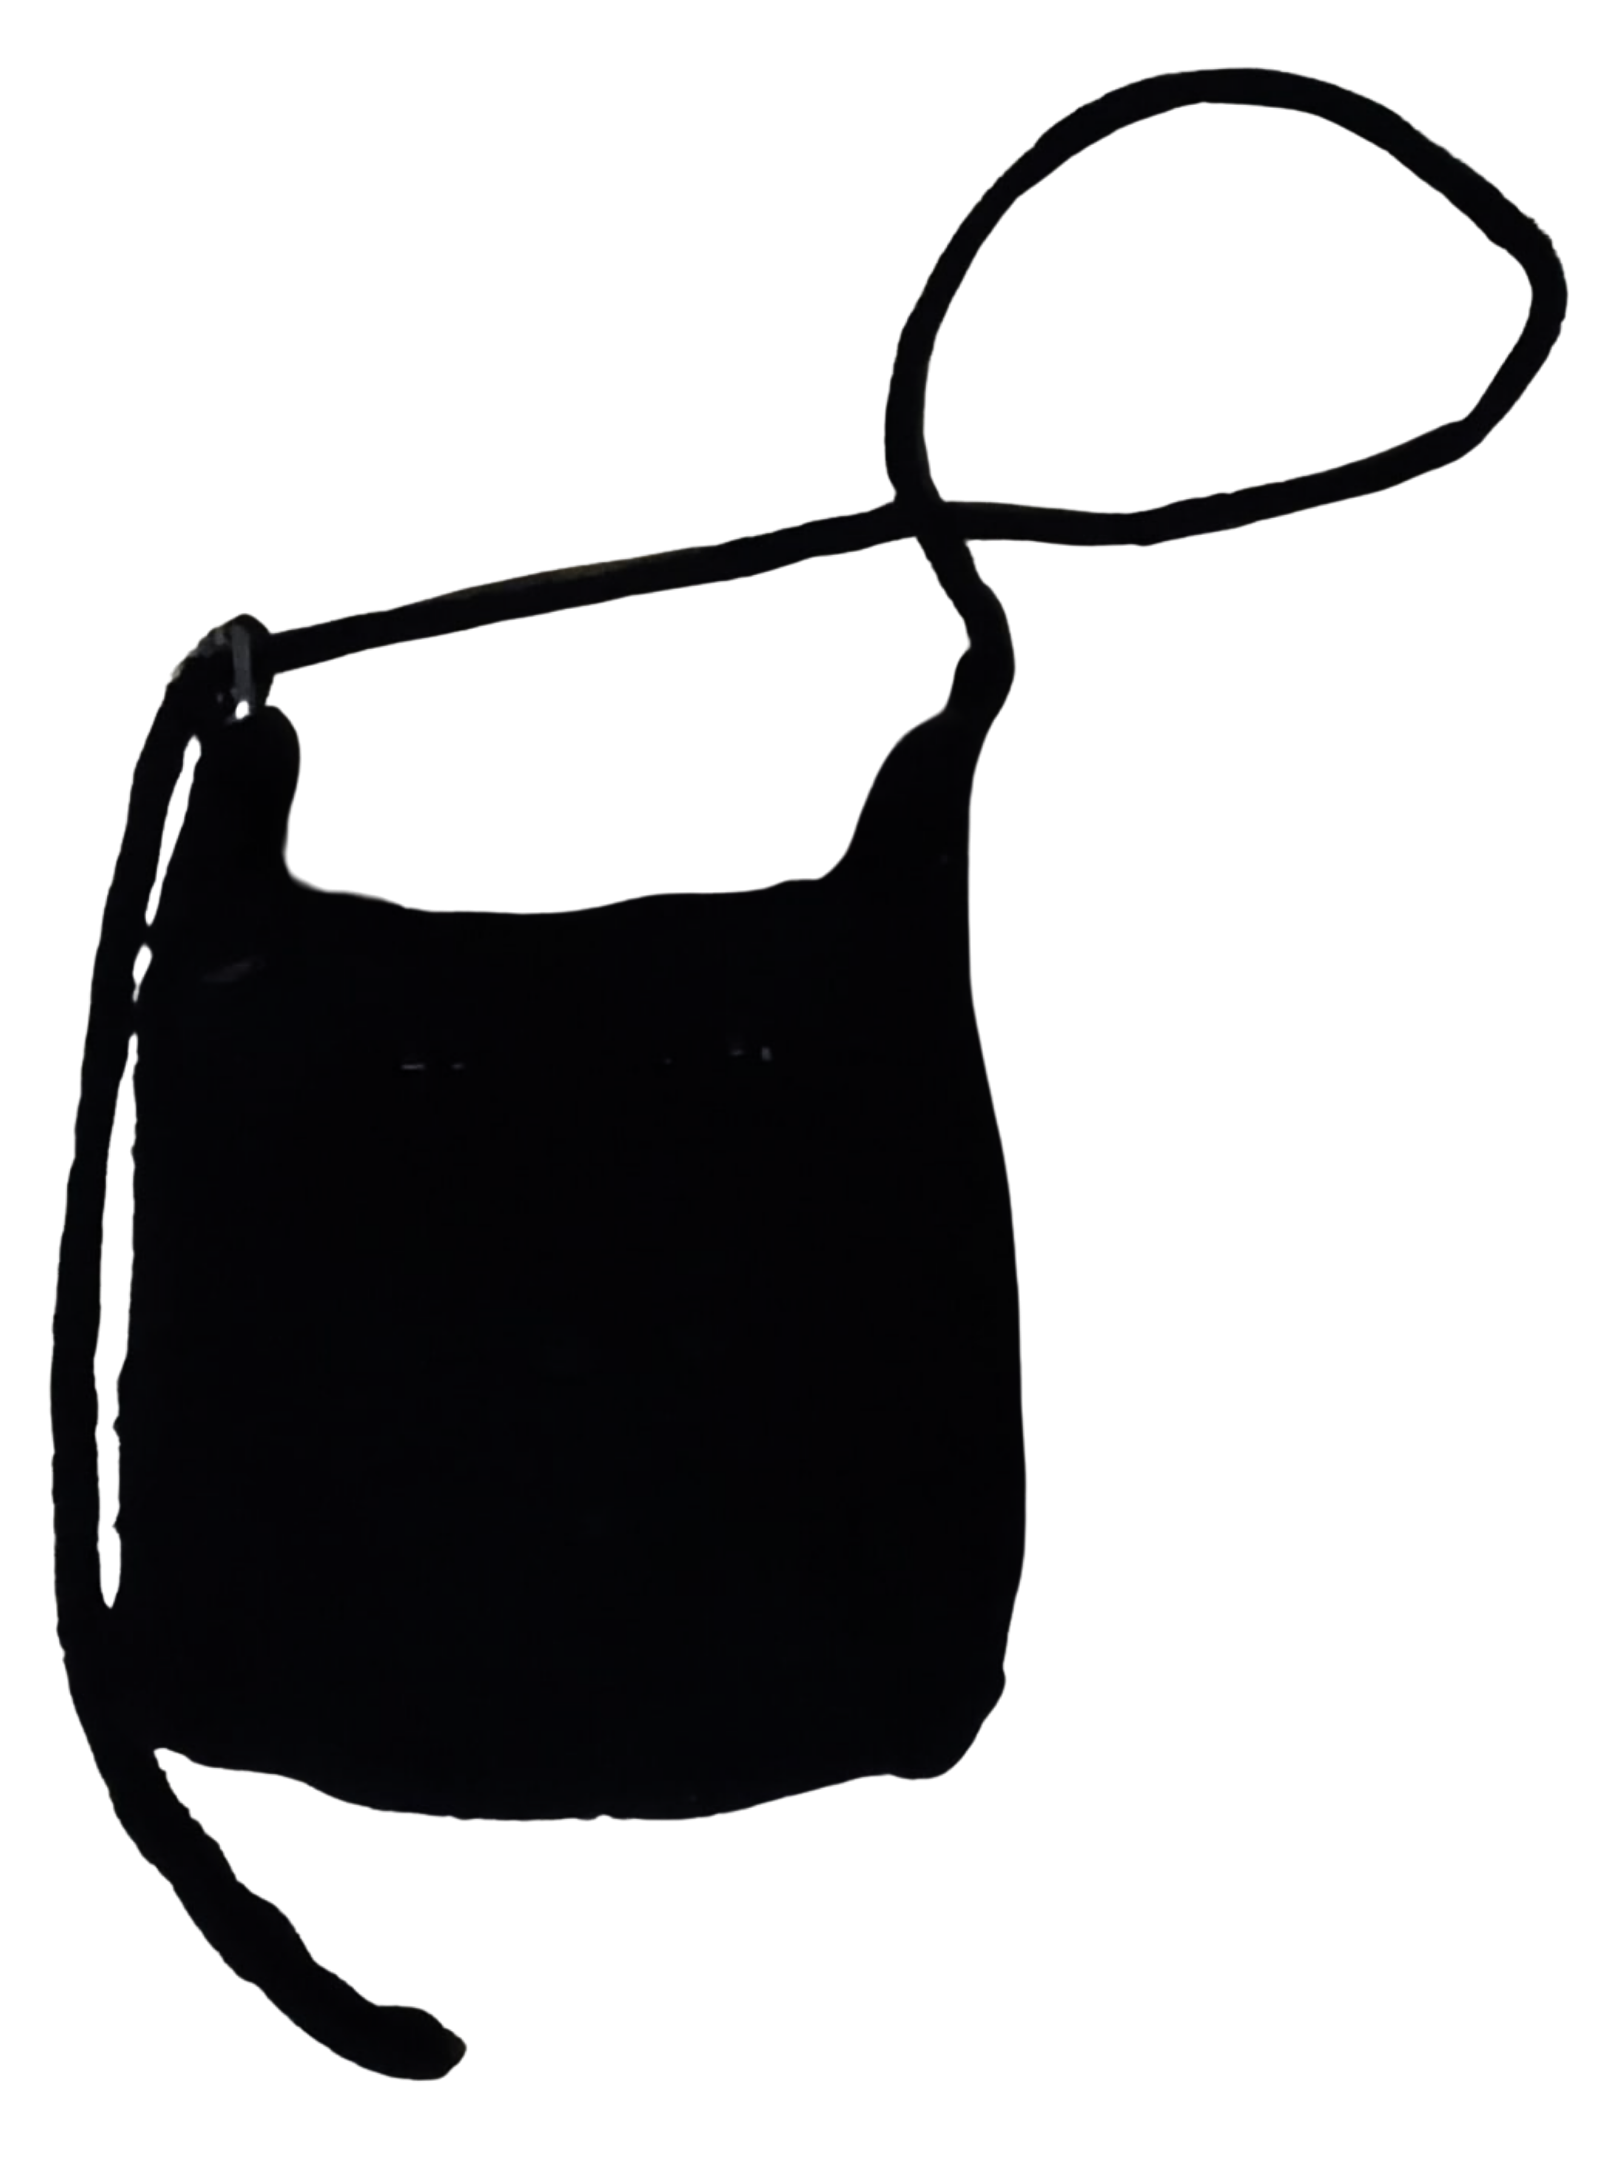
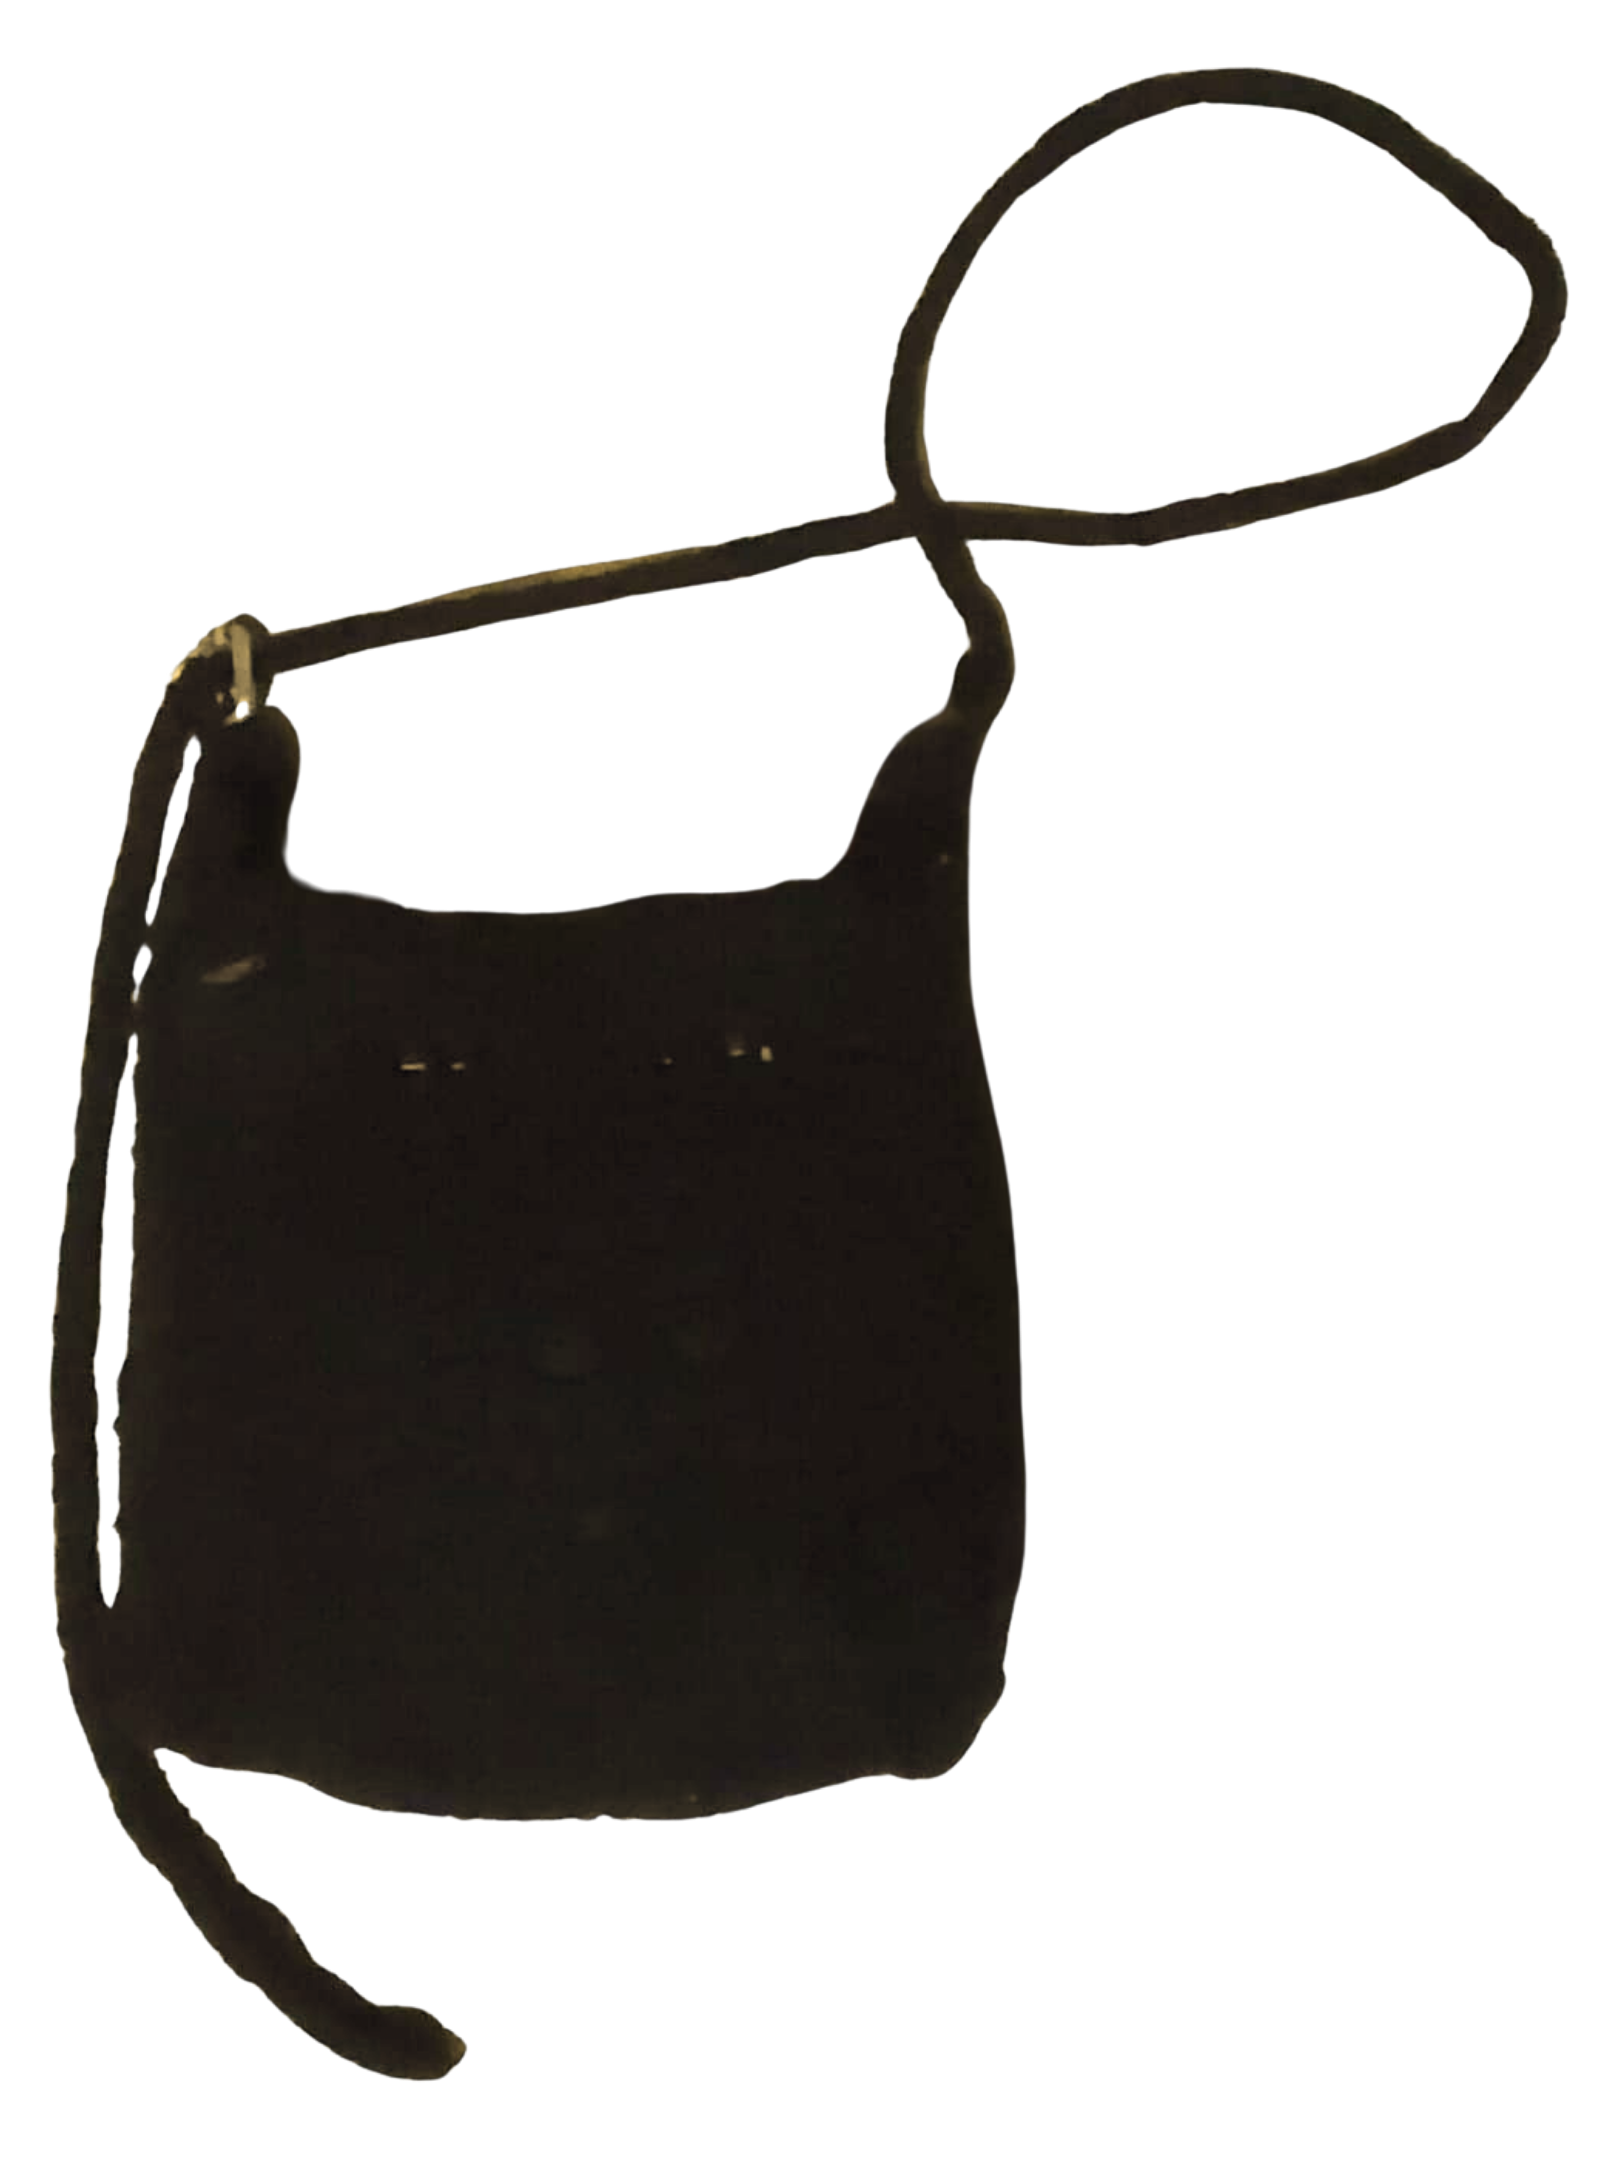
productos

Changed region(s): [[0.031, 0.1241, 0.9305, 0.9616], [0.6203, 0.031, 0.9926, 0.1861], [0.5893, 0.0931, 0.6203, 0.1241]]

diff --git a/amorumi/productos.html b/amorumi/productos.html
@@ -4,8 +4,205 @@
     <meta charset="UTF-8">
     <meta name="viewport" content="width=device-width, initial-scale=1.0">
     <title>Productos</title>
+    <link rel="preconnect" href="https://fonts.googleapis.com">
+    <link href="https://fonts.googleapis.com/css2?family=Inter:wght@400;500;600;700&display=swap" rel="stylesheet">
+    <link rel="stylesheet" href="styles/style.css">
 </head>
 <body>
+    <input class="radio" type="radio" name="filtro" id="f-todos" checked aria-label="Todos">
+    <input class="radio" type="radio" name="filtro" id="f-ropa" aria-label="Ropa">
+    <input class="radio" type="radio" name="filtro" id="f-peluches" aria-label="Peluches">
+    <input class="radio" type="radio" name="filtro" id="f-hogar" aria-label="Para el hogar">
+    <input class="radio" type="radio" name="filtro" id="f-accesorios" aria-label="Accesorios">
+
+    <header>
+        <div class="header-in">
+            <a class="brand" href="../inicio.html" aria-label="Amorumi, ir al inicio">
+                <div class="brand-logo big"><img src="../img_inicio/Logo.jfif" alt="Logo de Amorumi"></div>
+                <div><h1>Amorumi</h1><p>Tejidos con amor</p></div>
+            </a>
+            <nav class="menu" aria-label="Navegación principal">
+                <a href="../inicio.html">Inicio</a>
+                <a href="productos.html" class="current" aria-current="page">Productos</a>
+                <a href="pedido.html">Pedidos</a>
+                <a href="patrones.html">Patrones</a>
+            </nav>
+        </div>
+    </header>
+
+    <nav class="filters" aria-label="Filtrar por categoría">
+        <span>Categorías:</span>
+        <label class="chip" for="f-todos" tabindex="0">Todos</label>
+        <label class="chip" for="f-ropa" tabindex="0">Ropa</label>
+        <label class="chip" for="f-peluches" tabindex="0">Peluches</label>
+        <label class="chip" for="f-hogar" tabindex="0">Para el hogar</label>
+        <label class="chip" for="f-accesorios" tabindex="0">Accesorios</label>
+    </nav>
+
+    <main>
+        <section class="page-title" aria-labelledby="titulo-productos">
+            <h2 id="titulo-productos">Nuestros productos</h2>
+            <p>Piezas tejidas a mano, listas para llevar. Si desea una a su gusto, también la hacemos por encargo.</p>
+        </section>
+
+        <section class="grid catalogo" aria-label="Catálogo de productos">
+            <article class="card ropa">
+                <div class="pic"><img src="../img_inicio/Sueter.png" alt="Suéter calado tejido a crochet en colores pasteles" loading="lazy"></div>
+                <div class="body">
+                    <h3>Cárdigan patchwork</h3>
+                    <p>Cárdigan corto de cuadros en blanco, celeste y rosa, con puños y bordes acanalados. Tejido en algodón.</p>
+                    <p class="price">De $20 a $50</p>
+                    <div class="cats"><span class="cat ropa">ropa</span></div>
+                    <a class="btn" href="pedido.html">Pedir este producto</a>
+                </div>
+            </article>
+
+            <article class="card ropa">
+                <div class="pic"><img src=".." alt="Bufanda tejida a crochet" loading="lazy"></div>
+                <div class="body">
+                    <h3>Bufanda</h3>
+                    <p>Bufanda tejida a mano, suave y abrigadora. Puede pedirla en los colores que prefiera.</p>
+                    <p class="price">De $20 a $50</p>
+                    <div class="cats"><span class="cat ropa">ropa</span></div>
+                    <a class="btn" href="pedido.html">Pedir este producto</a>
+                </div>
+            </article>
+            <article class="card ropa">
+                <div class="pic"><img src=".." alt="Suéter tejido a crochet" loading="lazy"></div>
+                <div class="body">
+                    <h3>Suéter</h3>
+                    <p>Suéter tejido a mano. Lo hacemos a su medida y en los colores que usted elija.</p>
+                    <p class="price">De $20 a $50</p>
+                    <div class="cats"><span class="cat ropa">ropa</span></div>
+                    <a class="btn" href="pedido.html">Pedir este producto</a>
+                </div>
+            </article>
+
+            <article class="card peluches">
+                <div class="pic"><img src="../img_inicio/Osito.png" alt="Peluche de osito panda tejido a crochet" loading="lazy"></div>
+                <div class="body">
+                    <h3>Osito panda</h3>
+                    <p>Amigurumi de panda con detalles brillantes en el pecho, los brazos y las patas.</p>
+                    <p class="price">De $5 a $20</p>
+                    <div class="cats"><span class="cat peluches">peluches</span></div>
+                    <a class="btn" href="pedido.html">Pedir este producto</a>
+                </div>
+            </article>
+            <article class="card peluches">
+                <div class="pic"><img src="../img_inicio/HK enfermera.png" alt="Hello Kitty enfermera con un ramo de tulipanes azules" loading="lazy"></div>
+                <div class="body">
+                    <h3>Hello Kitty enfermera y tulipanes</h3>
+                    <p>Hello Kitty con uniforme azul y gorro de enfermera, acompañada de un ramo de tulipanes tejidos.</p>
+                    <p class="price">De $5 a $20</p>
+                    <div class="cats"><span class="cat peluches">peluches</span></div>
+                    <a class="btn" href="pedido.html">Pedir este producto</a>
+                </div>
+            </article>
+            <article class="card peluches">
+                <div class="pic"><img src="../img_inicio/Cinnamoroll.png" alt="Peluche de Cinnamoroll" loading="lazy"></div>
+                <div class="body">
+                    <h3>Peluche de Cinnamoroll</h3>
+                    <p>Peluche blanco de ojos grandes con un gorro azul de y mejillas rosadas.</p>
+                    <p class="price">De $5 a $20</p>
+                    <div class="cats"><span class="cat peluches">peluches</span></div>
+                    <a class="btn" href="pedido.html">Pedir este producto</a>
+                </div>
+            </article>
+            <article class="card peluches">
+                <div class="pic"><img src="../img_inicio/Coraline.png" alt="Peluche de Coraline" loading="lazy"></div>
+                <div class="body">
+                    <h3>Peluche de Coraline</h3>
+                    <p>Peluche de Coraline de cabello azul con impermeable y botas amarillas, y una bolsita cruzada.</p>
+                    <p class="price">De $5 a $20</p>
+                    <div class="cats"><span class="cat peluches">peluches</span></div>
+                    <a class="btn" href="pedido.html">Pedir este producto</a>
+                </div>
+            </article>
+            <article class="card peluches">
+                <div class="pic"><img src="../img_inicio/Medusa.png" alt="Colgante de medusa en tonos azules y blanco" loading="lazy"></div>
+                <div class="body">
+                    <h3>Medusa colgante</h3>
+                    <p>Medusa amigurumi en azul y blanco, con largos tentáculos y una cinta para colgar.</p>
+                    <p class="price">De $5 a $20</p>
+                    <div class="cats"><span class="cat peluches">peluches</span></div>
+                    <a class="btn" href="pedido.html">Pedir este producto</a>
+                </div>
+            </article>
+            <article class="card peluches">
+                <div class="pic"><img src="../img_inicio/Ramo HK.png" alt="Arreglo de rosas y tulipanes tejidos con Hello Kitty y bombones" loading="lazy"></div>
+                <div class="body">
+                    <h3>Arreglo floral con bombones</h3>
+                    <p>Rosas y tulipanes tejidos en tonos rosados y rojos, junto a Hello Kitty y bombones. Ideal para regalar.</p>
+                    <p class="price">De $5 a $20</p>
+                    <div class="cats"><span class="cat peluches">peluches</span></div>
+                    <a class="btn" href="pedido.html">Pedir este producto</a>
+                </div>
+            </article>
+
+            <article class="card hogar">
+                <div class="pic"><img src="../img_inicio/Posavasos tortuga.png" alt="Posavasos con forma de tortuga tejido a crochet" loading="lazy"></div>
+                <div class="body">
+                    <h3>Posavasos de tortuga</h3>
+                    <p>Posavasos con caparazón verde, cabeza y aletas en verde menta.</p>
+                    <p class="price">Consulte su precio</p>
+                    <div class="cats"><span class="cat hogar">para el hogar</span></div>
+                    <a class="btn" href="pedido.html">Pedir este producto</a>
+                </div>
+            </article>
+
+            <article class="card hogar">
+                <div class="pic"><img src=".." alt="Florero de mesa tejido a crochet" loading="lazy"></div>
+                <div class="body">
+                    <h3>Florero de mesa</h3>
+                    <p>Florero tejido a mano para dar un toque artesanal a su mesa.</p>
+                    <p class="price">Consulte su precio</p>
+                    <div class="cats"><span class="cat hogar">para el hogar</span></div>
+                    <a class="btn" href="pedido.html">Pedir este producto</a>
+                </div>
+            </article>
+
+            <article class="card accesorios">
+                <div class="pic"><img src="../img_inicio/Bolsita C.png" alt="Bolsita con cordones azul y blanca con cara de Cinnamoroll" loading="lazy"></div>
+                <div class="body">
+                    <h3>Bolsita de Cinnamoroll</h3>
+                    <p>Bolsita con cordones y cara de Cinnamoroll, ideal para guardar pequeños tesoros.</p>
+                    <p class="price">Consulte su precio</p>
+                    <div class="cats"><span class="cat accesorios">accesorios</span></div>
+                    <a class="btn" href="pedido.html">Pedir este producto</a>
+                </div>
+            </article>
+
+            <article class="card accesorios">
+                <div class="pic"><img src="../img_inicio/Cartera.png" alt="Cartera cruzada tejida a crochet en color oscuro, con una correa larga" loading="lazy"></div>
+                <div class="body">
+                    <h3>Cartera cruzada</h3>
+                    <p>Cartera tejida con correa larga para llevar cruzada, práctica para el día a día.</p>
+                    <p class="price">Consulte su precio</p>
+                    <div class="cats"><span class="cat accesorios">accesorios</span></div>
+                    <a class="btn" href="pedido.html">Pedir este producto</a>
+                </div>
+            </article>
+
+        </section>
+
+        <section class="cta" aria-labelledby="titulo-cta">
+            <h2 id="titulo-cta">¿No encuentra lo que busca?</h2>
+            <p>Envíenos una foto de referencia y la tejemos a su gusto.</p>
+            <a class="btn" href="pedido.html">Hacer un pedido personalizado</a>
+        </section>
+
+    </main>
     
+    <footer>
+        <div class="footer-in">
+            <p>Tejidos con amor · Amorumi</p>
+            <ul class="contact" aria-label="Contacto">
+                <li>Instagram: <a href="https://www.instagram.com/amorumi.sv" target="_blank" rel="noopener">@amorumi.sv</a></li>
+                <li>Correo: <a href="mailto:amorumi.sv@gmail.com">amorumi.sv@gmail.com</a></li>
+                <li>Teléfono: <a href="tel:+50312345678">1234 5678</a></li>
+            </ul>
+        </div>
+    </footer>
+
 </body>
 </html>
